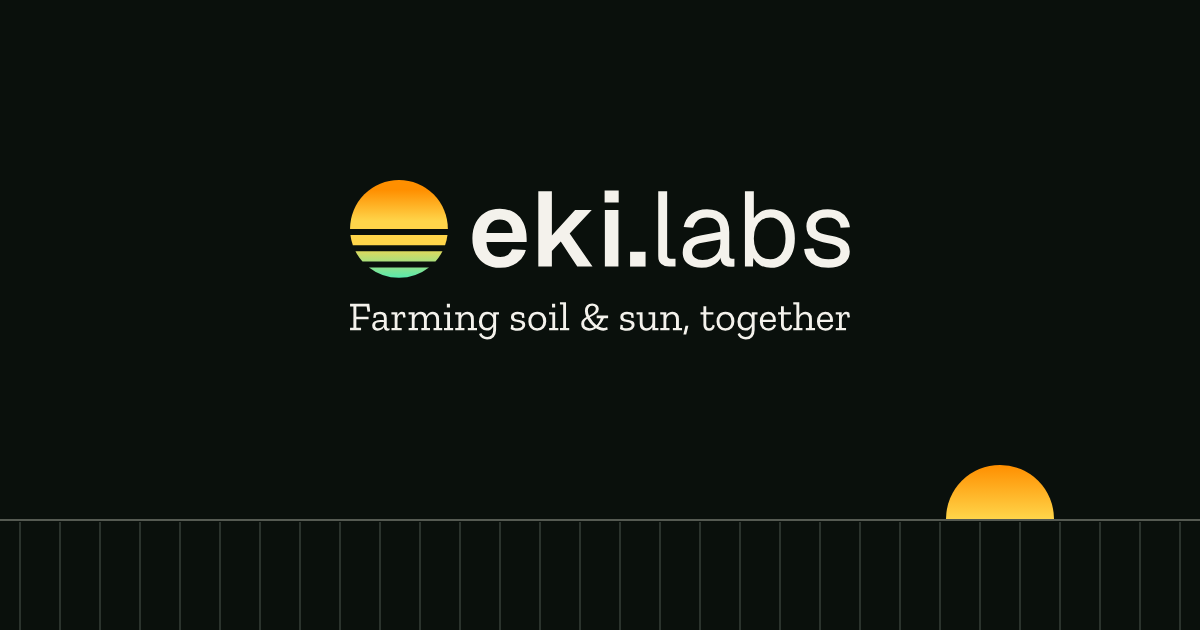
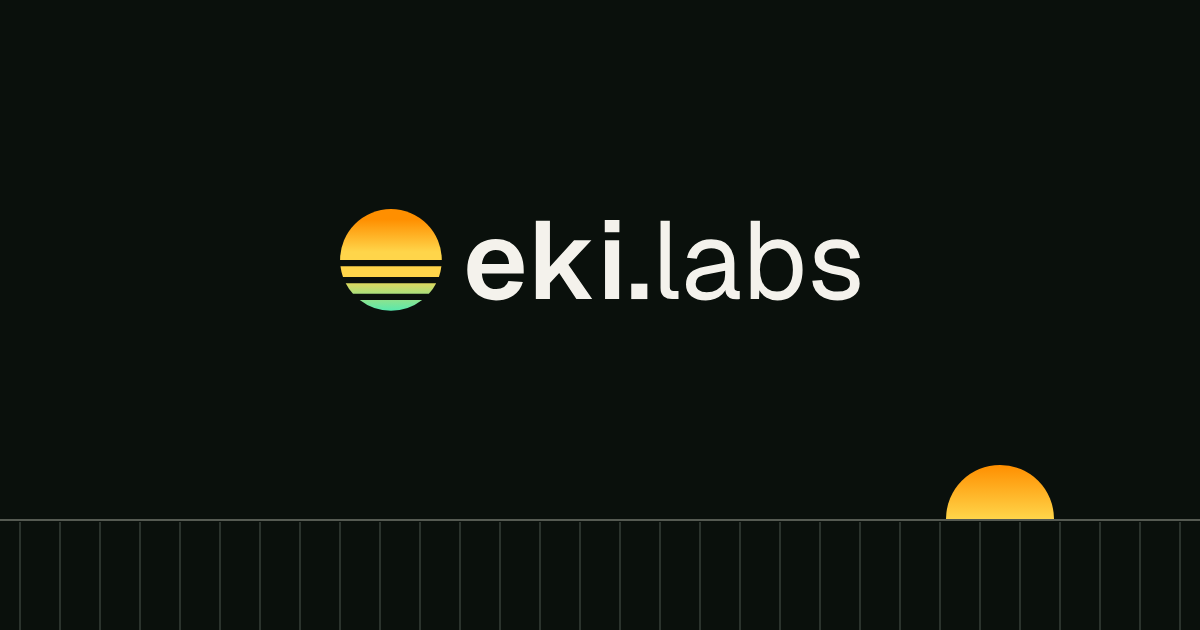
Web publicada desde eki-labs-web@5aa20d8

Changed region(s): [[0.2775, 0.2714, 0.74, 0.5429]]

diff --git a/index.html b/index.html
@@ -11,7 +11,7 @@
 <meta property="og:title" content="eki.labs · Farming soil &amp; sun, together">
 <meta property="og:description" content="Now, you don’t have to choose. We enable dual land use with a technology that needs minimal space, so farmers keep farming.">
 <meta property="og:url" content="https://ekilabs.com/">
-<meta property="og:image" content="https://ekilabs.com/social-preview.png?v=2">
+<meta property="og:image" content="https://ekilabs.com/social-preview.png?v=3">
 <meta property="og:image:width" content="1200">
 <meta property="og:image:height" content="630">
 <meta property="og:image:alt" content="eki.labs · Farming soil &amp; sun, together">

diff --git a/technology/index.html b/technology/index.html
@@ -10,7 +10,7 @@
 <meta property="og:site_name" content="eki.labs">
 <meta property="og:title" content="Technology · eki.labs">
 <meta property="og:description" content="The technology behind eki.labs: bifacial panels in rows, facing east and west, with room for farming in between. Write to us to learn more.">
-<meta property="og:image" content="https://ekilabs.com/social-preview.png?v=2">
+<meta property="og:image" content="https://ekilabs.com/social-preview.png?v=3">
 <meta property="og:image:width" content="1200">
 <meta property="og:image:height" content="630">
 <meta property="og:image:alt" content="eki.labs · Farming soil &amp; sun, together">

diff --git a/model/index.html b/model/index.html
@@ -10,7 +10,7 @@
 <meta property="og:site_name" content="eki.labs">
 <meta property="og:title" content="Model · eki.labs">
 <meta property="og:description" content="How an eki.labs plant works for the farmer, the investor and the energy buyer. Write to us to learn more.">
-<meta property="og:image" content="https://ekilabs.com/social-preview.png?v=2">
+<meta property="og:image" content="https://ekilabs.com/social-preview.png?v=3">
 <meta property="og:image:width" content="1200">
 <meta property="og:image:height" content="630">
 <meta property="og:image:alt" content="eki.labs · Farming soil &amp; sun, together">

diff --git a/privacy/index.html b/privacy/index.html
@@ -11,7 +11,7 @@
 <meta property="og:title" content="Privacy policy · eki.labs">
 <meta property="og:description" content="How eki.labs handles personal data.">
 <meta property="og:url" content="https://ekilabs.com/privacy/">
-<meta property="og:image" content="https://ekilabs.com/social-preview.png?v=2">
+<meta property="og:image" content="https://ekilabs.com/social-preview.png?v=3">
 <meta property="og:image:width" content="1200">
 <meta property="og:image:height" content="630">
 <meta property="og:image:alt" content="eki.labs · Farming soil &amp; sun, together">

diff --git a/legal/index.html b/legal/index.html
@@ -11,7 +11,7 @@
 <meta property="og:title" content="Legal notice · eki.labs">
 <meta property="og:description" content="Legal notice of ekilabs.com.">
 <meta property="og:url" content="https://ekilabs.com/legal/">
-<meta property="og:image" content="https://ekilabs.com/social-preview.png?v=2">
+<meta property="og:image" content="https://ekilabs.com/social-preview.png?v=3">
 <meta property="og:image:width" content="1200">
 <meta property="og:image:height" content="630">
 <meta property="og:image:alt" content="eki.labs · Farming soil &amp; sun, together">

diff --git a/404.html b/404.html
@@ -10,7 +10,7 @@
 <meta property="og:site_name" content="eki.labs">
 <meta property="og:title" content="Page not found · eki.labs">
 <meta property="og:description" content="This page is not in the field.">
-<meta property="og:image" content="https://ekilabs.com/social-preview.png?v=2">
+<meta property="og:image" content="https://ekilabs.com/social-preview.png?v=3">
 <meta property="og:image:width" content="1200">
 <meta property="og:image:height" content="630">
 <meta property="og:image:alt" content="eki.labs · Farming soil &amp; sun, together">
